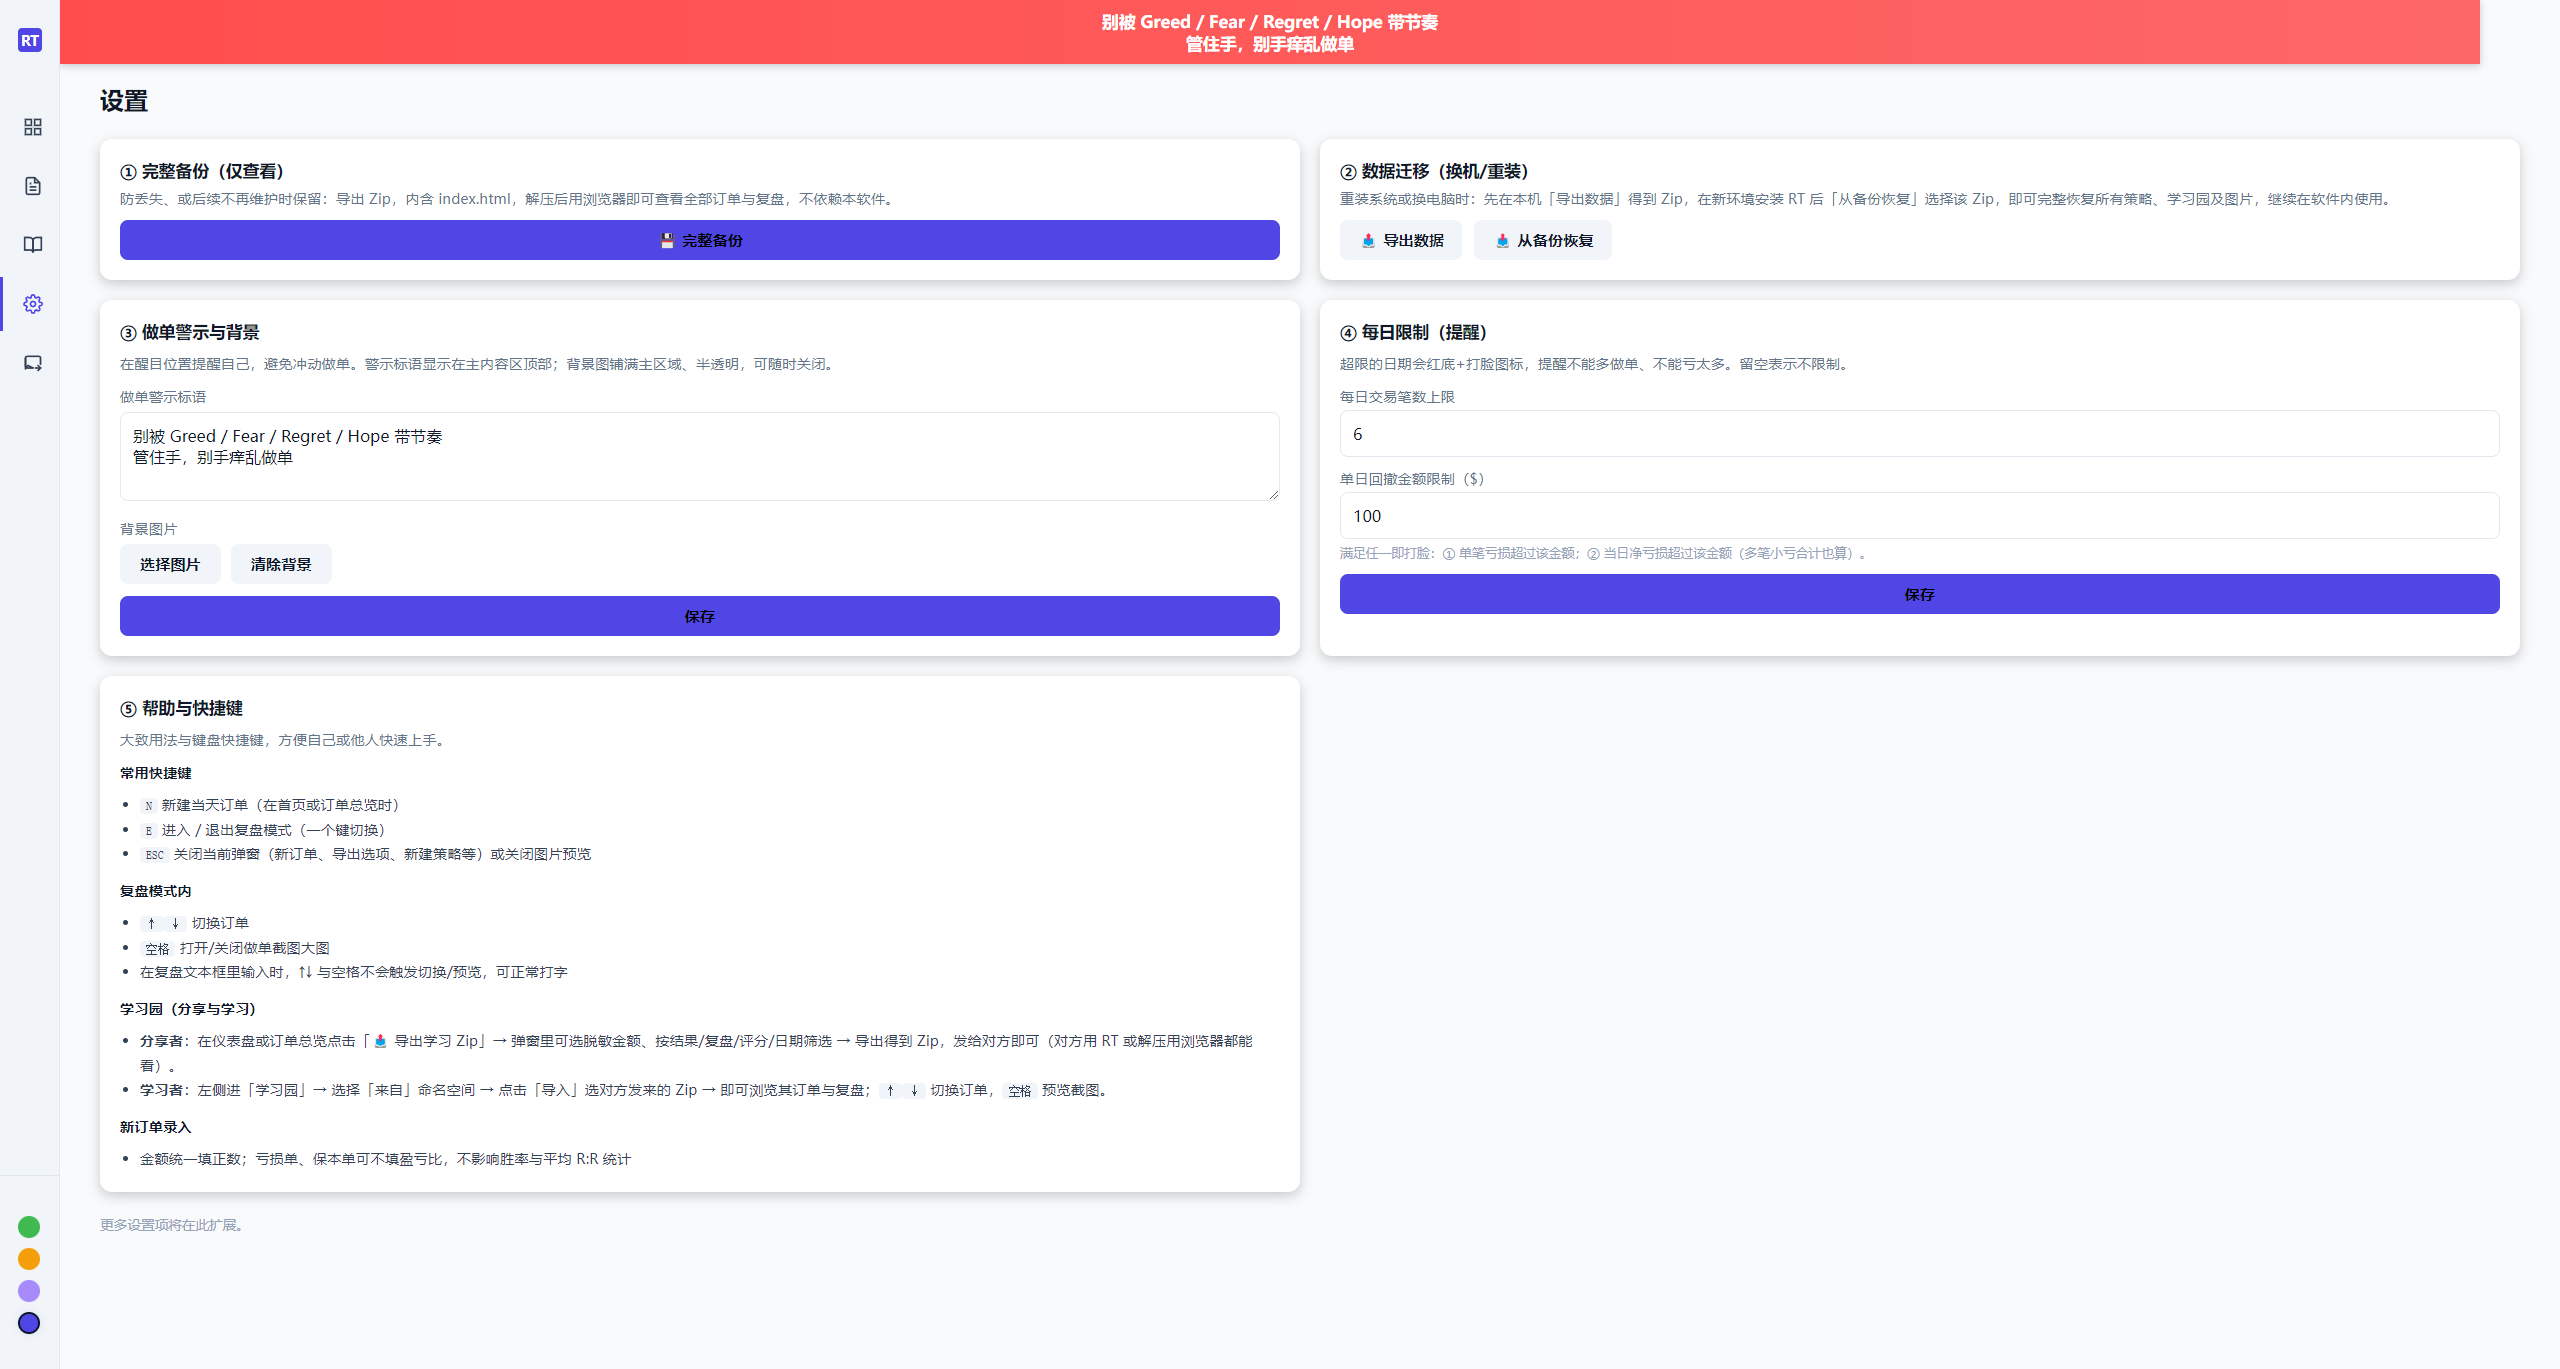
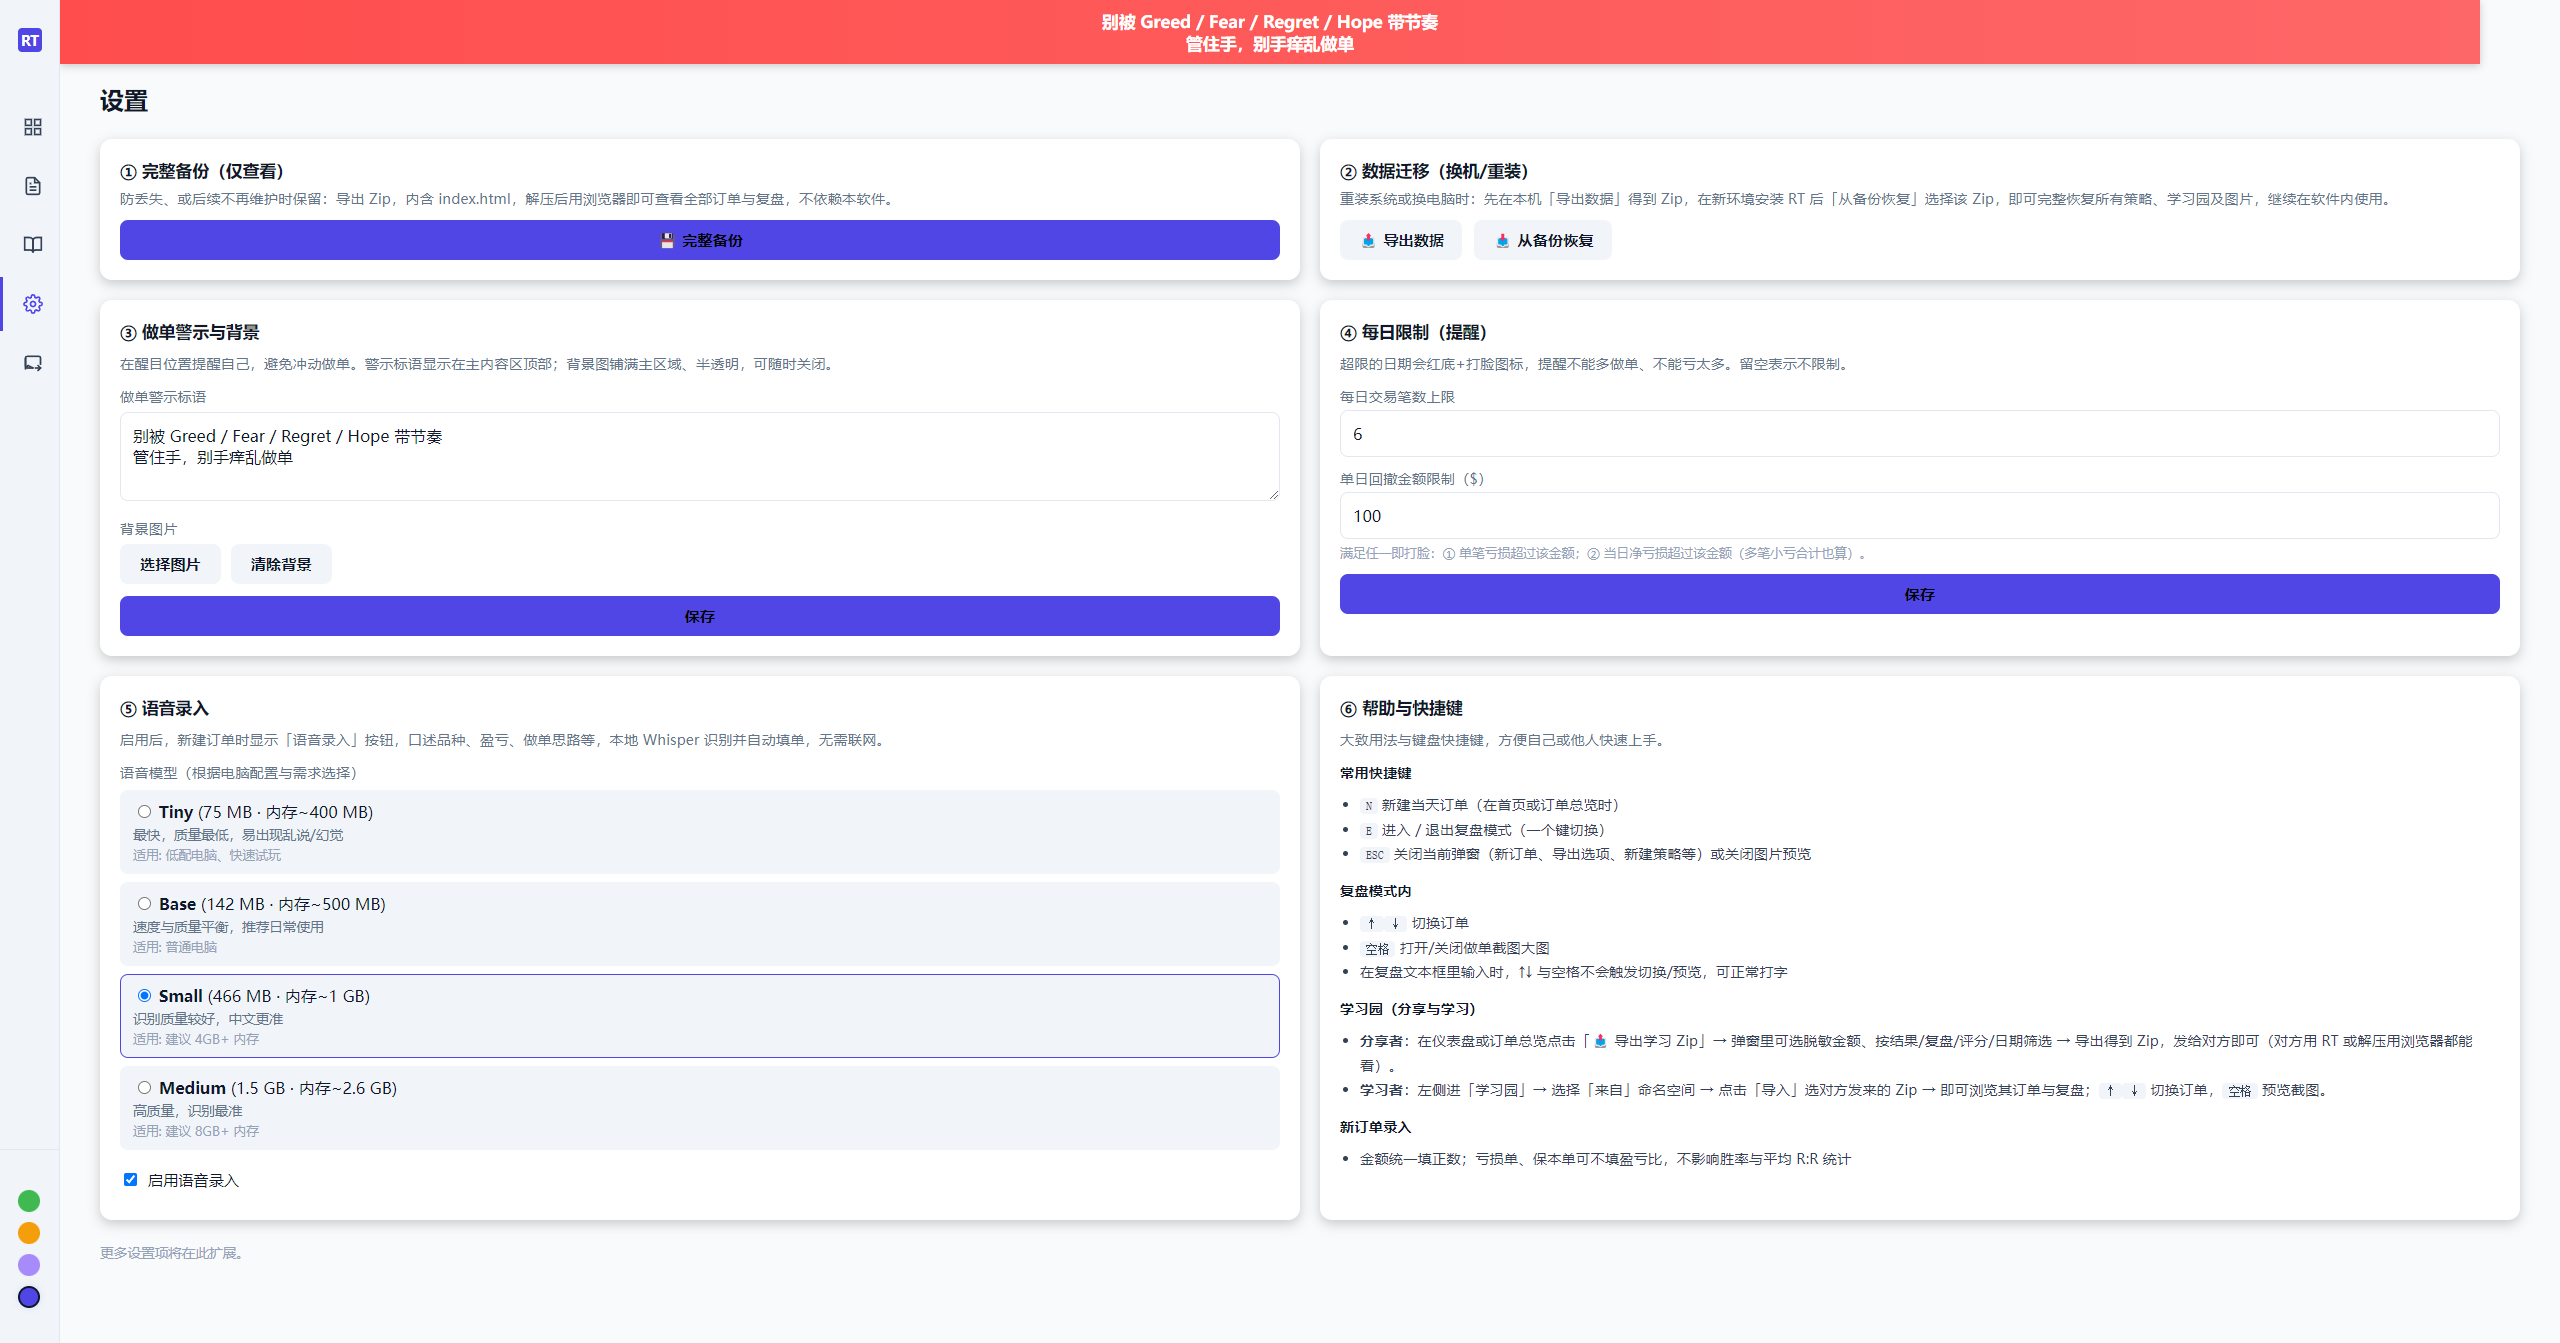
docs: sync README and screenshots for v1.8.0

diff --git a/README.md b/README.md
@@ -21,6 +21,8 @@
 | ![晒单入口](docs/screenshots/share-card-entry.png) | ![晒单弹窗](docs/screenshots/share-card-modal.png) | ![晒单结果](docs/screenshots/share-card-result.png) |
 | 做单警示与背景（防 FOMO） | 每日笔数/回撤限制 | 日历打脸提醒 |
 | ![做单警示](docs/screenshots/settings.png) | ![每日限制](docs/screenshots/settings.png) | ![打脸提醒](docs/screenshots/dashboard.png) |
+| 语音录入（本地 Whisper） | 语音模型设置 | |
+| ![语音录入](docs/screenshots/voice-input.png) | ![语音模型](docs/screenshots/voice-settings.png) | |
 
 ## 下载与安装
 
@@ -75,6 +77,7 @@
 - 🖼 **晒单** - 选一张做单图生成宽幅分享图（可隐藏金额等）
 - 💾 **完整备份与恢复** - 导出全部策略为 Zip（含独立查看器），支持从备份恢复
 - 🛡 **做单警示与限制** - 警示标语与背景图防 FOMO；每日笔数/回撤限制与日历打脸提醒
+- 🎤 **语音录入** - 本地 Whisper 语音识别，无需联网；口述做单思路自动填入备注，可解析品种/方向/金额
 
 ## 使用示例
 
@@ -114,7 +117,7 @@ A: 将 `recording-trader` 目录拷贝到新电脑对应路径，或在新电脑
 
 - 所有数据存储在本地，不上传任何云服务
 - 支持完整备份与「导出学习 Zip」分享，数据均在您掌控
-- 提供编译版下载；安装包由 GitHub Actions 构建并发布至本仓库 Releases
+- 本软件为闭源产品，仅提供编译版下载；安装包由 GitHub Actions 构建并发布至本仓库 Releases
 
 ---
 
